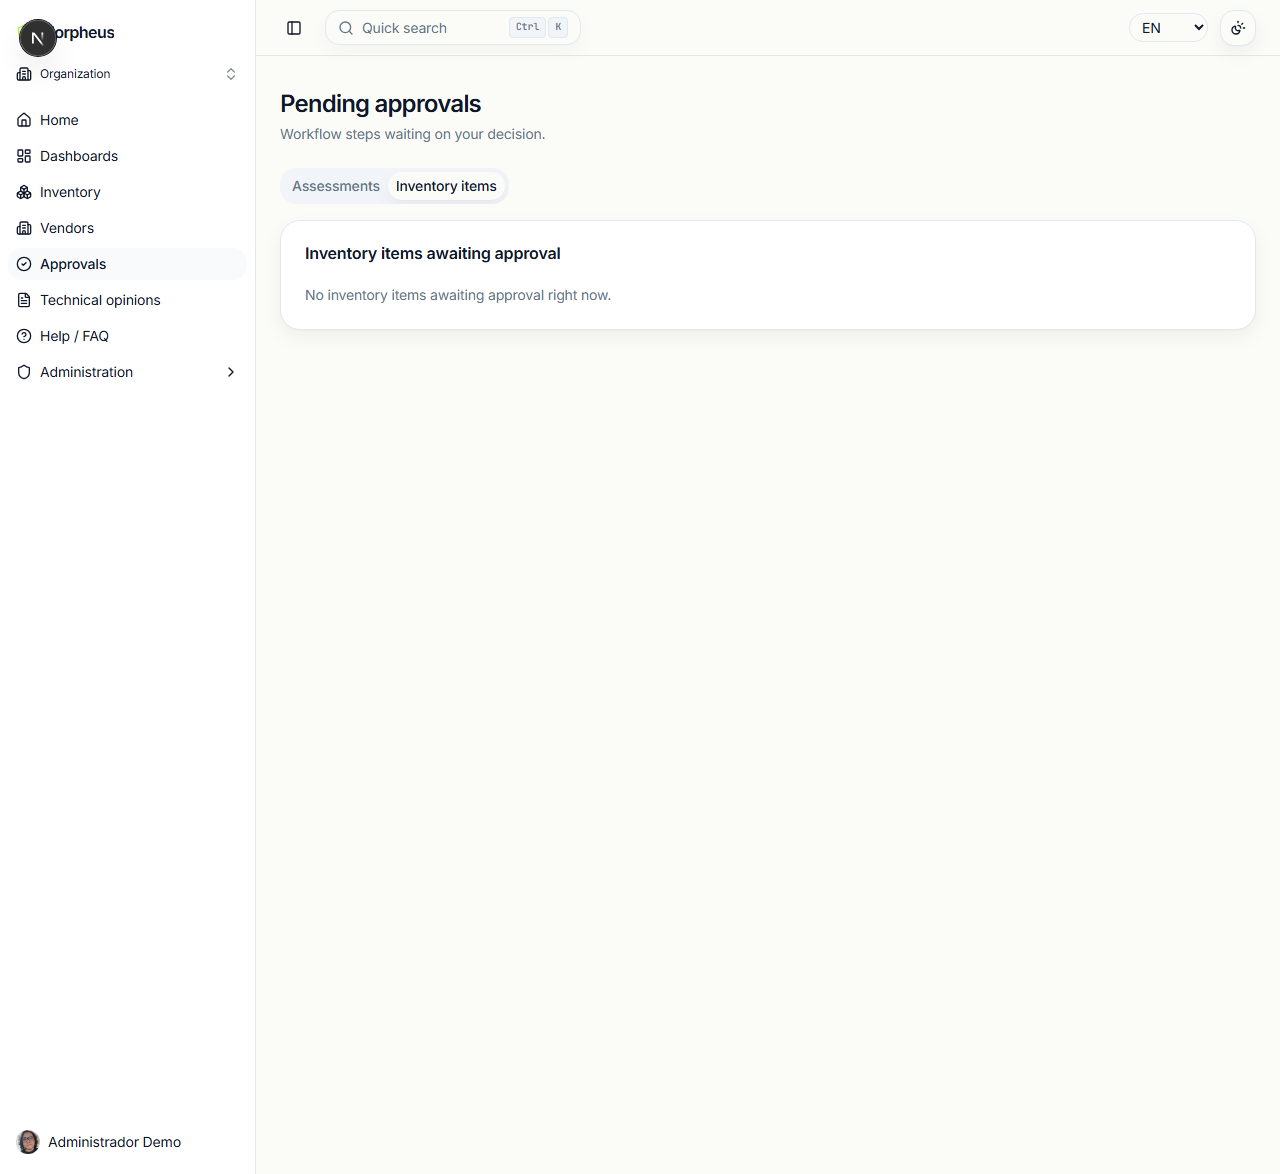
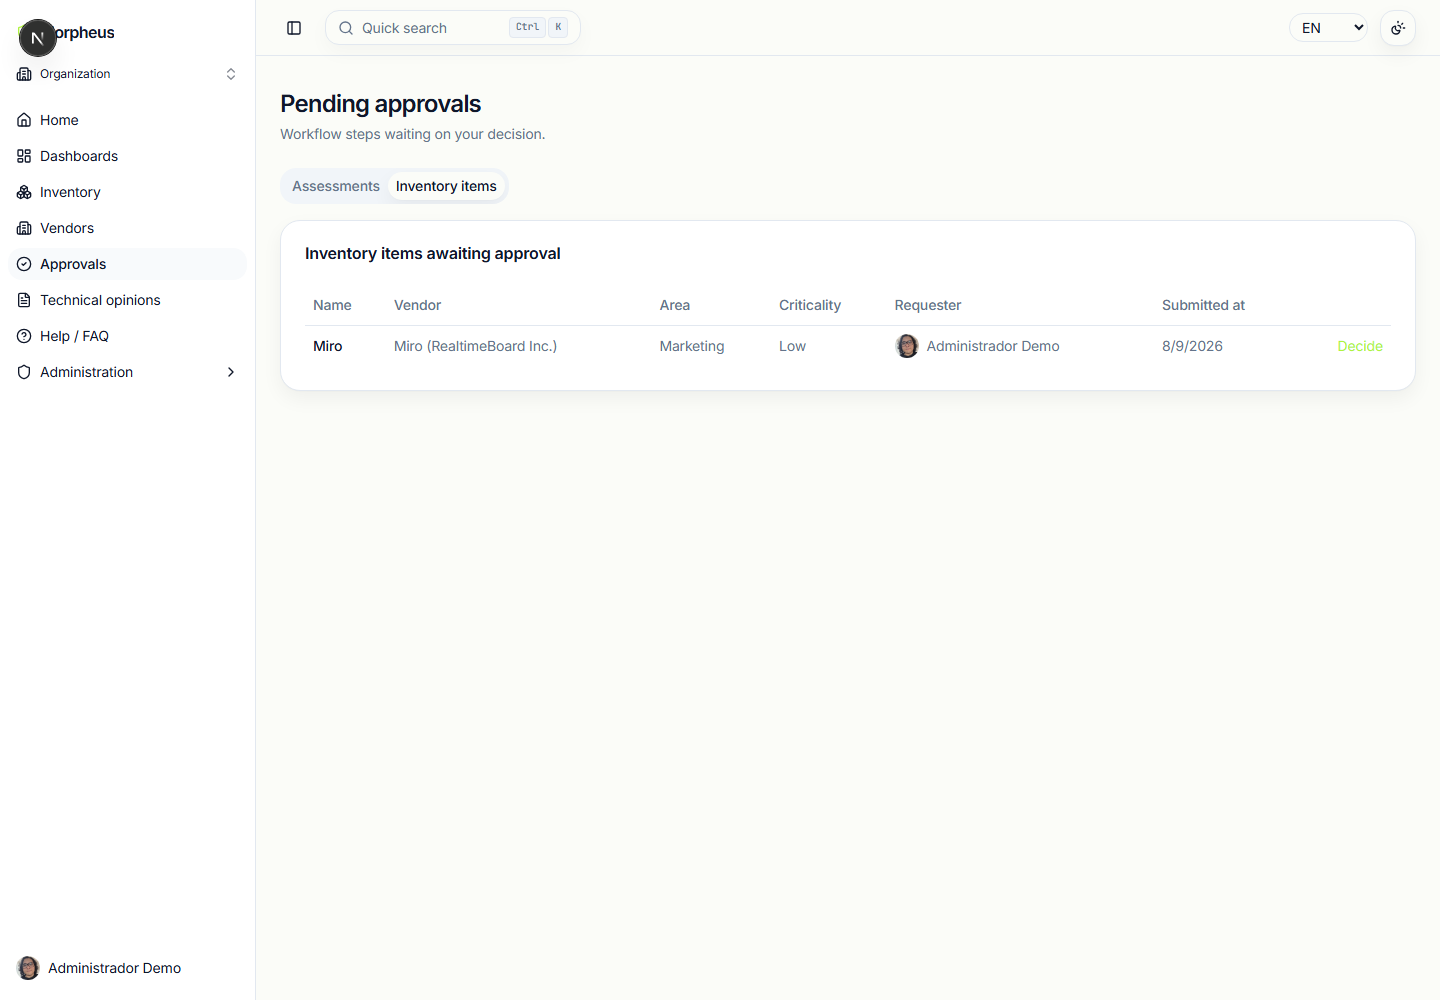
docs(inventory): enriquecimento - Fase 8, portfólio (fecha o arco) (#150)
README (PT-BR+EN) ganha a seção "Enriquecimento de inventário (metodologia)"
explicando frescor de versão (endoflife.date) e reputação de ameaça
(VirusTotal). 8 telas fotografadas em PT-BR+EN: 2 novas (frescor, reputação
no detalhe do item) + 6 regeneradas porque o dado por trás mudou com o
enriquecimento profundo de amostras desta sessão (admin-platform-policy,
inventory-item-art, inventory-lista, inventory-approval-queue,
dashboard-minha-visao, dashboard-administrativo).

Fecha o arco completo de 8 fases (PRs #142-#148 + esta), milestone #22.

diff --git a/README.md b/README.md
@@ -21,6 +21,9 @@ adotado pela empresa e o fornecedor por trás dele. Do questionário de risco à
    27002, NIST CSF, CIS Controls v8, LGPD, GDPR, OWASP ASVS/Top 10) e placar de maturidade por área.
 7. Avaliação de risco de fornecedores, com questionário inspirado no NIST SP 800-161, pontuação
    automática e Tiers de monitoramento com cadência de reavaliação configurável.
+8. Enriquecimento automático do inventário: frescor de versão (endoflife.date) e reputação de ameaça
+   (VirusTotal) - configurável pelo super-admin, nunca bloqueia a leitura do inventário se o
+   terceiro estiver indisponível.
 
 Um efeito direto disso: como toda nova contratação passa por um canal único e fica registrada num
 inventário central, o processo também fortalece a governança corporativa e reduz Shadow IT - o
@@ -68,6 +71,33 @@ avaliado ou está com reavaliação vencida/próxima.
 | ART do fornecedor no detalhe do item | Acompanhamento de fornecedores |
 | --- | --- |
 | ![ART do fornecedor](./docs/screenshots/inventory-item-art.png) | ![Acompanhamento de fornecedores](./docs/screenshots/vendors-acompanhamento.png) |
+
+## Enriquecimento de inventário (metodologia)
+
+Além dos sinais autodeclarados (ART, cláusula de segurança da informação), cada item do inventário
+pode ganhar dois sinais automáticos, consultados sob demanda ou por uma varredura noturna com
+orçamento diário compartilhado (nunca estoura a cota gratuita do terceiro, mesmo somando cliques
+manuais de vários usuários):
+
+- **Frescor de versão**: vínculo manual com o catálogo do [endoflife.date](https://endoflife.date/)
+  (sincronizado localmente todo dia) - compara a versão cadastrada do item contra o ciclo de release
+  correspondente e classifica "em dia" ou "desatualizada". A comparação é deliberadamente
+  conservadora: sem um match exato de ciclo, o resultado é "desconhecido", nunca um veredito
+  arriscado.
+- **Reputação de ameaça**: checagem passiva no [VirusTotal](https://www.virustotal.com/) por hash de
+  anexo (precedência) ou URL do item - nunca envia mais que o artefato necessário, nunca dados
+  identificáveis do tenant. Um hash/URL que o VirusTotal nunca viu antes vira "não verificado", jamais
+  "limpo" por omissão. Para software obviamente confiável sem artefato pra checar (ex. um SaaS
+  comercial conhecido), existe também uma flag manual "declarado conhecido".
+
+Ambas as integrações são opcionais e configuradas pelo super-admin numa tela central - e, seguindo a
+mesma premissa de resiliência do resto do sistema, a indisponibilidade de qualquer uma delas nunca
+compromete a leitura normal do inventário: os dados exibidos vêm sempre do último resultado já salvo,
+nunca de uma chamada ao vivo durante a navegação.
+
+| Frescor de versão no detalhe do item | Reputação de ameaça no detalhe do item |
+| --- | --- |
+| ![Frescor de versão](./docs/screenshots/inventory-freshness.png) | ![Reputação de ameaça](./docs/screenshots/inventory-reputation.png) |
 
 ## Conformidade com frameworks de segurança (metodologia)
 
@@ -255,6 +285,9 @@ by the company and the vendor behind it. From risk questionnaire to final decisi
    CIS Controls v8, LGPD, GDPR, OWASP ASVS/Top 10), and a maturity leaderboard by area.
 7. Vendor risk assessment, with a questionnaire inspired by NIST SP 800-161, automatic scoring, and
    monitoring Tiers with configurable reassessment cadence.
+8. Automatic inventory enrichment: version freshness (endoflife.date) and threat reputation
+   (VirusTotal) - configurable by the super-admin, never blocks inventory reads if the third party
+   is unavailable.
 
 A direct side effect: since every new acquisition goes through a single channel and lands in a
 central inventory, the process also strengthens corporate governance and reduces Shadow IT - the
@@ -301,6 +334,31 @@ overdue/upcoming reassessment.
 | Vendor ART on the item detail page | Vendor tracking |
 | --- | --- |
 | ![Vendor ART](./docs/screenshots/inventory-item-art-en.png) | ![Vendor tracking](./docs/screenshots/vendors-acompanhamento-en.png) |
+
+## Inventory enrichment (methodology)
+
+Beyond the self-declared signals (ART, information security clause), every inventory item can carry
+two automatic signals, checked on demand or by a nightly sweep sharing one daily budget (never
+exceeds the third party's free-tier cap, even counting manual clicks from multiple users at once):
+
+- **Version freshness**: a manual link to the [endoflife.date](https://endoflife.date/) catalog
+  (synced locally every day) - compares the item's registered version against the matching release
+  cycle and classifies it "up to date" or "outdated". The comparison is deliberately conservative:
+  without an exact cycle match, the result is "unknown", never a risky guess.
+- **Threat reputation**: a passive lookup on [VirusTotal](https://www.virustotal.com/) by attachment
+  hash (takes precedence) or the item's URL - never sends more than the artifact itself, never any
+  tenant-identifying data. A hash/URL VirusTotal has never seen becomes "unverified", never "clean"
+  by omission. For software that's obviously trustworthy with no artifact to check (e.g. a well-known
+  commercial SaaS), there's also a manual "declared known" flag.
+
+Both integrations are optional and configured by the super-admin in a central screen - and, following
+the same resilience premise as the rest of the system, either one being unavailable never compromises
+normal inventory reads: the data shown always comes from the last saved result, never a live call made
+while browsing.
+
+| Version freshness on the item detail page | Threat reputation on the item detail page |
+| --- | --- |
+| ![Version freshness](./docs/screenshots/inventory-freshness-en.png) | ![Threat reputation](./docs/screenshots/inventory-reputation-en.png) |
 
 ## Compliance with security frameworks (methodology)
 

diff --git a/docs/changelog/2026-08.md b/docs/changelog/2026-08.md
@@ -1781,3 +1781,65 @@ ver [`../CHANGELOG.md`](../CHANGELOG.md) para o índice completo.
   - **Testes**: `pnpm --filter @morpheus/api lint/typecheck/test/build` verdes (432 testes). Sem
     mudança de comportamento - só a correção do gap de cobertura de teste acima.
   - **Próxima fase** (mesmo arco): Fase 8 (portfólio, fecha o arco inteiro).
+
+## 2026-08-09
+
+- **Checklist de dados de demonstração (tenant `demo`) - novo processo padrão, não é código.** Antes
+  da Fase 8, o usuário pediu uma avaliação profunda dos 12 (agora 13) itens de inventário e da
+  cobertura de status em `Assessment`/`Inventory`/`Vendor`, explicitamente pra deixar o tenant `demo`
+  "parecer real e mostrar o potencial do sistema" - e pediu que isso virasse um checklist escrito,
+  seguido até o fim do projeto, não um combinado verbal.
+  - Novo `docs/demo-data-checklist.md` (10 pontos: levantar estado real antes de propor, cobrir
+    status "andamento"/"reprovado" além do caminho feliz, manter coerência de narrativa entre
+    entidades, **confirmar impacto real nos dashboards** (não só na tela de detalhe do item tocado),
+    sempre via API real, orçamento de terceiro é finito, propor antes de executar em mudanças
+    grandes, regenerar screenshot também em mudança de dado, registrar o que foi feito). Referenciado
+    em `docs/DEVELOPMENT.md`, mesmo padrão de `security.md`.
+  - Enriquecimento profundo executado: mais 4 checagens de reputação (2 declaradas conhecidas, 1
+    checagem real do VirusTotal em `docusign.com` → limpa, 1 checagem real numa URL nunca indexada →
+    `null`, permanece "não verificado" **com timestamp de checagem real** - demonstração ao vivo da
+    garantia "404 nunca vira limpo"); `SIEM Local Agent` virou o exemplo real de `PENDING_REVIEW`
+    (data de revisão recuada pra dentro da janela de 30 dias + `InventoryReviewScheduler` disparado
+    sob demanda); novo item `Miro` criado via `POST /inventory` real como exemplo de
+    `PENDING_APPROVAL`; 3 avaliações novas com questionário completo respondido via script reutilizável
+    cobrindo `DRAFT`, `PENDING_ADJUSTMENT` e `REJECTED` (motivos realistas, incl. um caso de LGPD/
+    transferência internacional).
+  - **Achado real, virou item novo no backlog de auditoria de "pontas soltas"**: `AssessmentStatus
+    .SUBMITTED` e `.REOPENED` são valores do enum que **nenhum caminho de código real produz hoje** -
+    confirmado lendo `assessments.service.ts`/`workflow.service.ts` diretamente (`submit()` seta
+    `IN_REVIEW` direto, nunca `SUBMITTED`; grep por `REOPENED` não retorna nenhum ponto de escrita).
+    Deliberadamente **não fabricados via SQL** - forjar um estado que o sistema real nunca produz
+    violaria o próprio checklist novo (coerência com o sistema de verdade). Ficou só como achado
+    registrado, não uma decisão de remover/implementar.
+  - **Efeito colateral pego e corrigido**: rodar o scheduler de revisão também flipou "Contract
+    Analyzer AI" (o sample histórico de `PENDING_RENEWAL` desde 2026-07-24) pra `PENDING_REVIEW`,
+    porque sua `nextReviewDate` ainda estava velha do backdate antigo e voltou a cair dentro da janela
+    de 30 dias. Revertido pra `ACTIVE` com `nextReviewDate` empurrada +12 meses, pra não conviver com
+    um segundo sinal de "pendente" confuso no mesmo item.
+  - **Impacto nos dashboards confirmado visualmente** (Playwright, não só a resposta da API, seguindo
+    o próprio checklist): `/dashboard` (Home) e as 2 abas de gráficos de `/dashboards` → Administrativo
+    agora refletem os 6 status de avaliação reais; `/approvals` (as 2 abas) e `/inventory` mostram os
+    itens novos. Achado replicado do gotcha já documentado de screenshot headless (gráficos recharts
+    somem no primeiro screenshot pós-mount, não é bug real - contornado com um screenshot descartável
+    antes da captura de verdade).
+  - Orçamento VirusTotal: 3 chamadas reais usadas no dia (de 450).
+
+- **Enriquecimento de itens de inventário - Fase 8: portfólio (fecha o arco de 8 fases).** README.md
+  (PT-BR+EN) ganha o 8º item da lista de funcionalidades e uma nova seção "Enriquecimento de
+  inventário (metodologia)"/"Inventory enrichment (methodology)", espelhando o formato das seções de
+  matriz de risco/avaliação de fornecedores já existentes - explica os dois sinais, a precedência
+  hash-de-anexo sobre URL, e reafirma a premissa de resiliência (terceiro indisponível nunca quebra
+  leitura do inventário).
+  - **8 telas fotografadas, PT-BR+EN (16 arquivos)**: 2 novas (`inventory-freshness.png` - Internal
+    Billing API, versão em dia via Node.js; `inventory-reputation.png` - DocuSign, reputação
+    verificada limpa via URL real) e 6 regeneradas porque o dado por trás mudou visivelmente com o
+    enriquecimento de amostras de hoje (não só por causa de UX nova): `admin-platform-policy.png`
+    (card "Integrações" - chave sempre mascarada como "•••• configurada", nunca o valor real),
+    `inventory-item-art.png` (trocado para Legacy ERP - mostra tier do fornecedor + frescor
+    "desatualizado" juntos), `inventory-lista.png`, `inventory-approval-queue.png`,
+    `dashboard-minha-visao.png`, `dashboard-administrativo.png`.
+  - **Testes**: revisão visual de cada screenshot antes de substituir (não assumido - aberto e
+    conferido, incluindo confirmar que a chave do VirusTotal nunca aparece em nenhuma imagem).
+  - **Fecha o arco inteiro de enriquecimento de inventário** (Fases 1-8, PRs #142-#148 + esta,
+    milestone #22) - freshness via endoflife.date e reputação via VirusTotal, com chave real do
+    usuário configurada e ativa em produção-like (`demo`) a partir de agora.

diff --git a/docs/CHANGELOG.md b/docs/CHANGELOG.md
@@ -24,8 +24,10 @@ uma linha do que aconteceu.
   terceiro travado fora, sem achado na revisão de segurança), gráficos de conformidade CIS/NIST/ISO em
   `/dashboards` (capacidade de mapeamento de controles já existente no schema, nunca antes exposta),
   curadoria de portfólio focada em conformidade/GRC, revisão conjunta do inventário (painel de anexos,
-  busca por nome, seletor de usuário pesquisável), e o início do arco de enriquecimento de itens de
-  inventário (frescor de versão via endoflife.date + reputação de ameaça via VirusTotal).
+  busca por nome, seletor de usuário pesquisável), e o arco completo de enriquecimento de itens de
+  inventário (frescor de versão via endoflife.date + reputação de ameaça via VirusTotal, Fases 1-8,
+  fecha o backlog — inclui um novo checklist padrão de dados de demonstração adotado até o fim do
+  projeto).
 - [**Julho**](./changelog/2026-07.md) — Construção inicial do produto (roteiro técnico Etapas 1-16 +
   plano pós-roteiro Etapas A-I), multi-tenancy e administração avançada, backlog pós-uso, renovação
   anual de homologação, avaliação de risco de fornecedores, vínculo Inventory↔Vendor, SSDLC/CI, e
